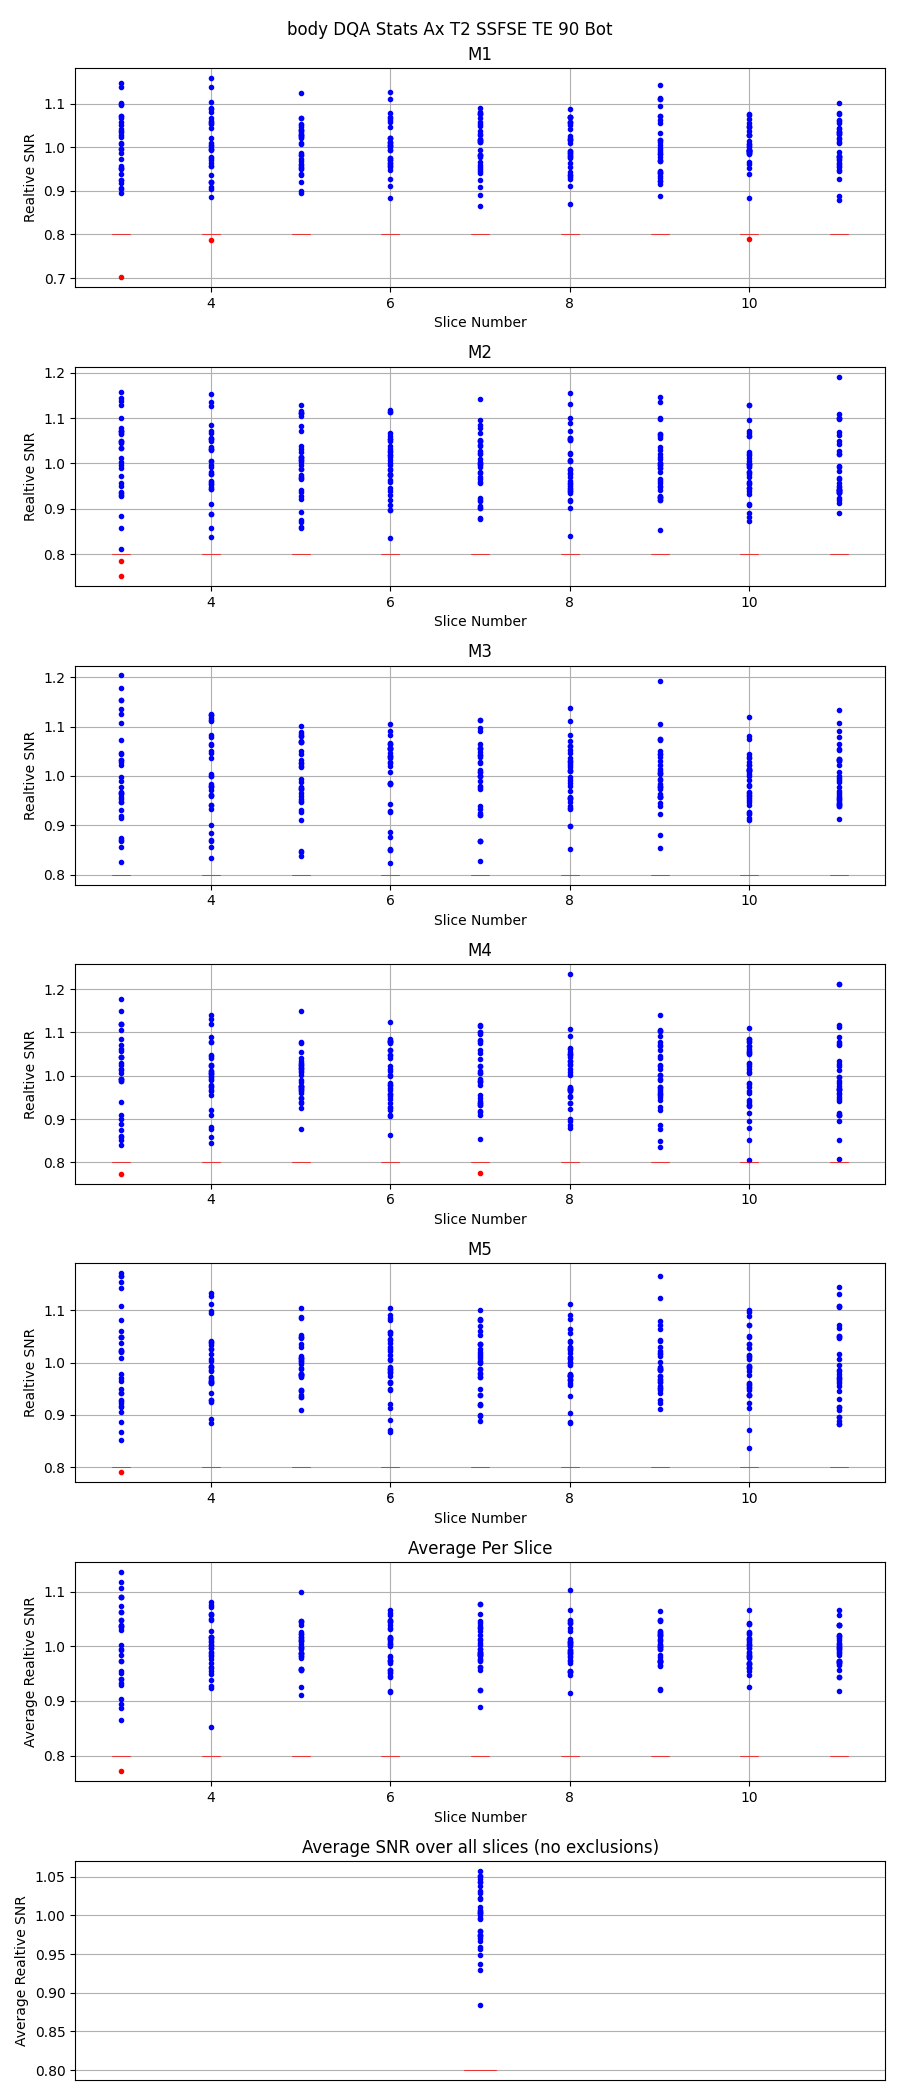
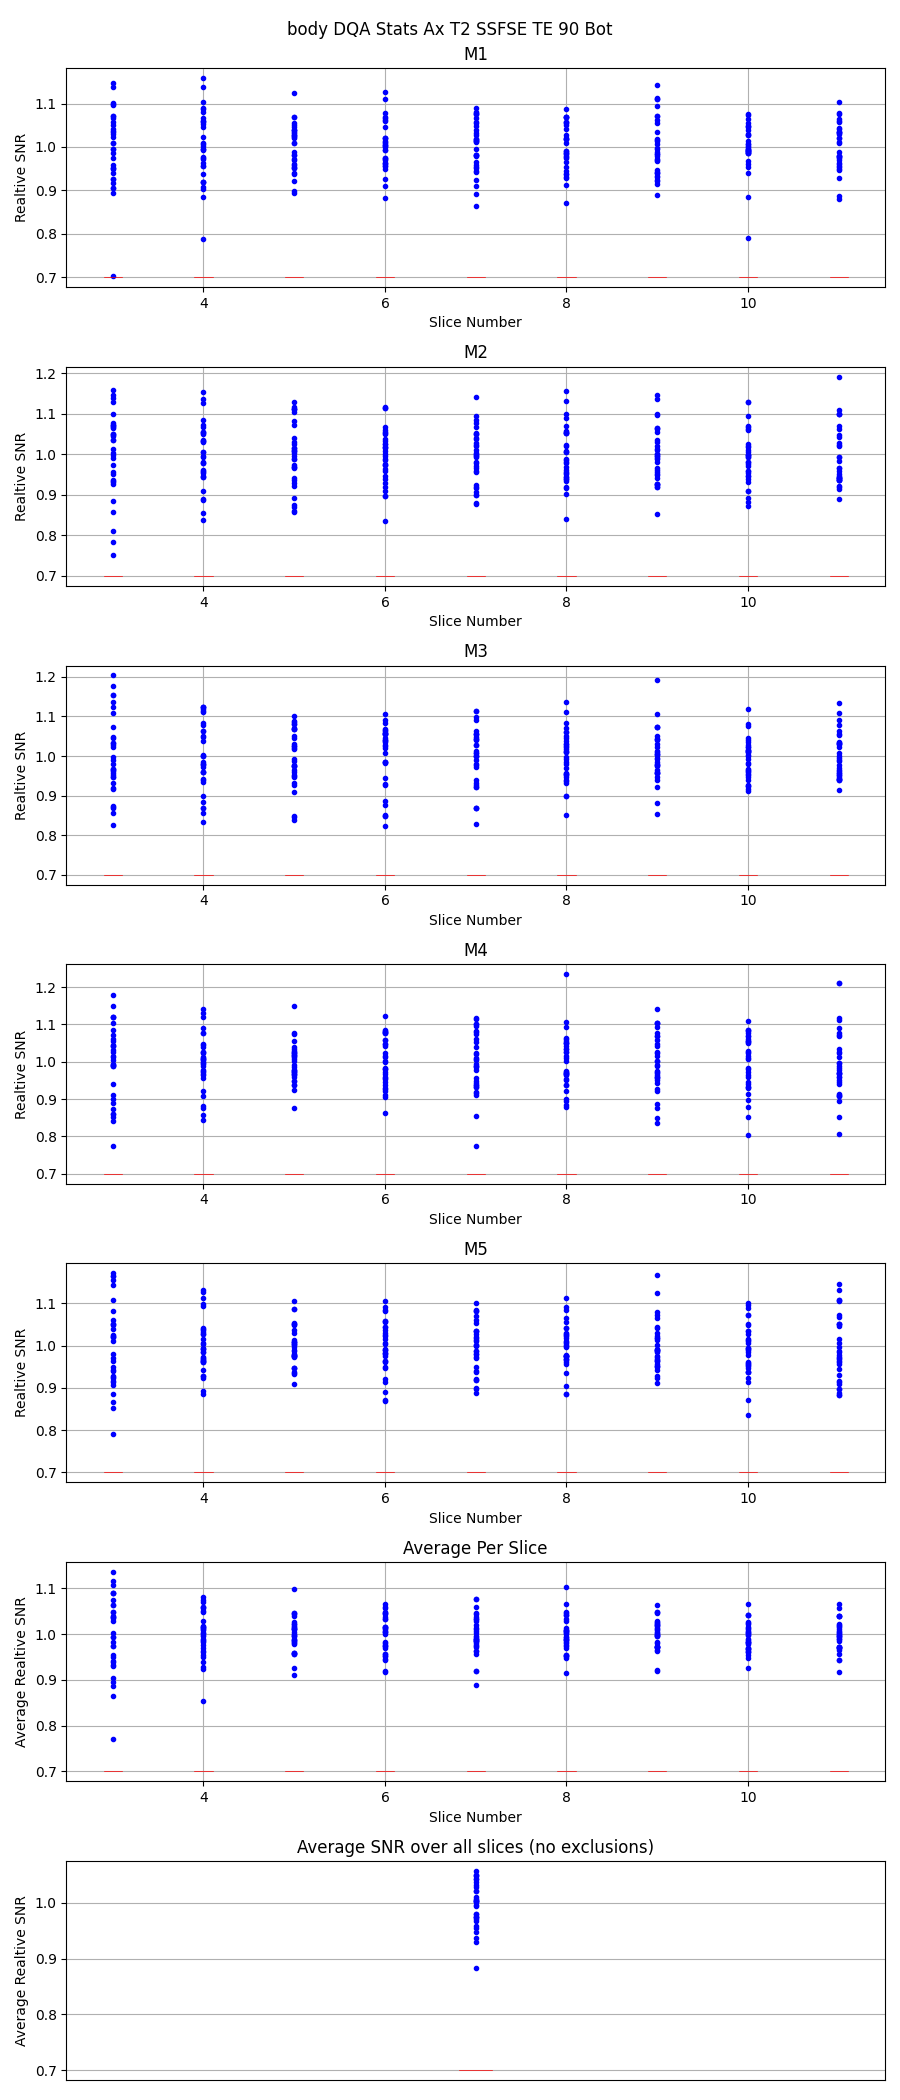
updated threshold for body

diff --git a/Testing/GetSNRStats.py b/Testing/GetSNRStats.py
@@ -227,8 +227,7 @@ for folder in BodyArchives:
 Data,FileTracker = SortData(BodySNRFilesSources)
 np.save("Testing/SNRStats/BodyDataFile.npy", Data)
 np.save("Testing/SNRStats/BodyFileTracker.npy", FileTracker)
-
+'''
 Data = np.load("Testing/SNRStats/BodyDataFile.npy",allow_pickle=True)
 FileTracker = np.load("Testing/SNRStats/BodyFileTracker.npy",allow_pickle=True)
 AnalyseData(Data,FileTracker,"body",Normalise=True,ExcludeSlicesOption=True)
-'''

diff --git a/Utilities/GetBaselineStats.py b/Utilities/GetBaselineStats.py
@@ -105,4 +105,4 @@ Archives = [x[0] for x in os.walk("Archive")][1:]
 for folder in Archives:
     if "Spine" in folder:
         files.append(folder)
-GetBaselineSmooth(files,"Spine_Baseline.npy","BaselineData/Spine/")
+#GetBaselineSmooth(files,"Spine_Baseline.npy","BaselineData/Spine/")
